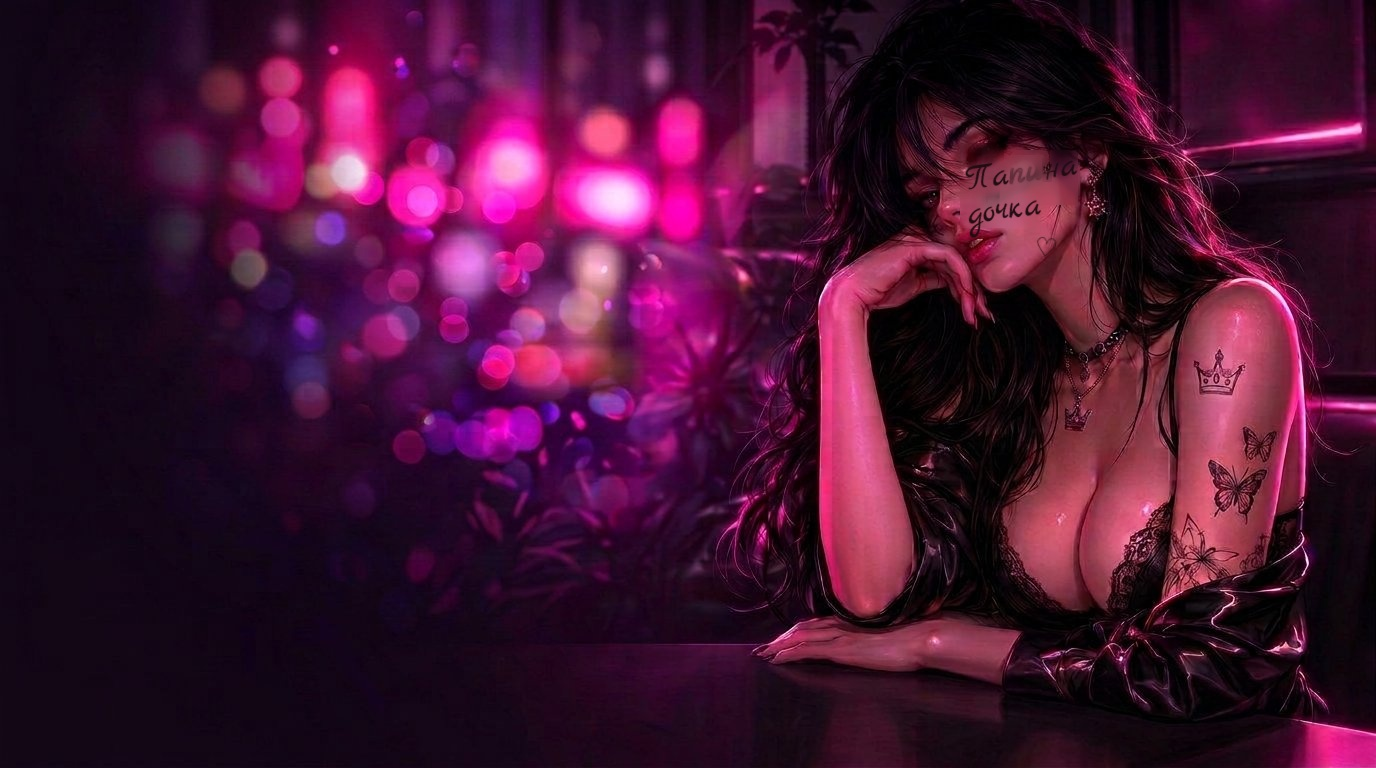
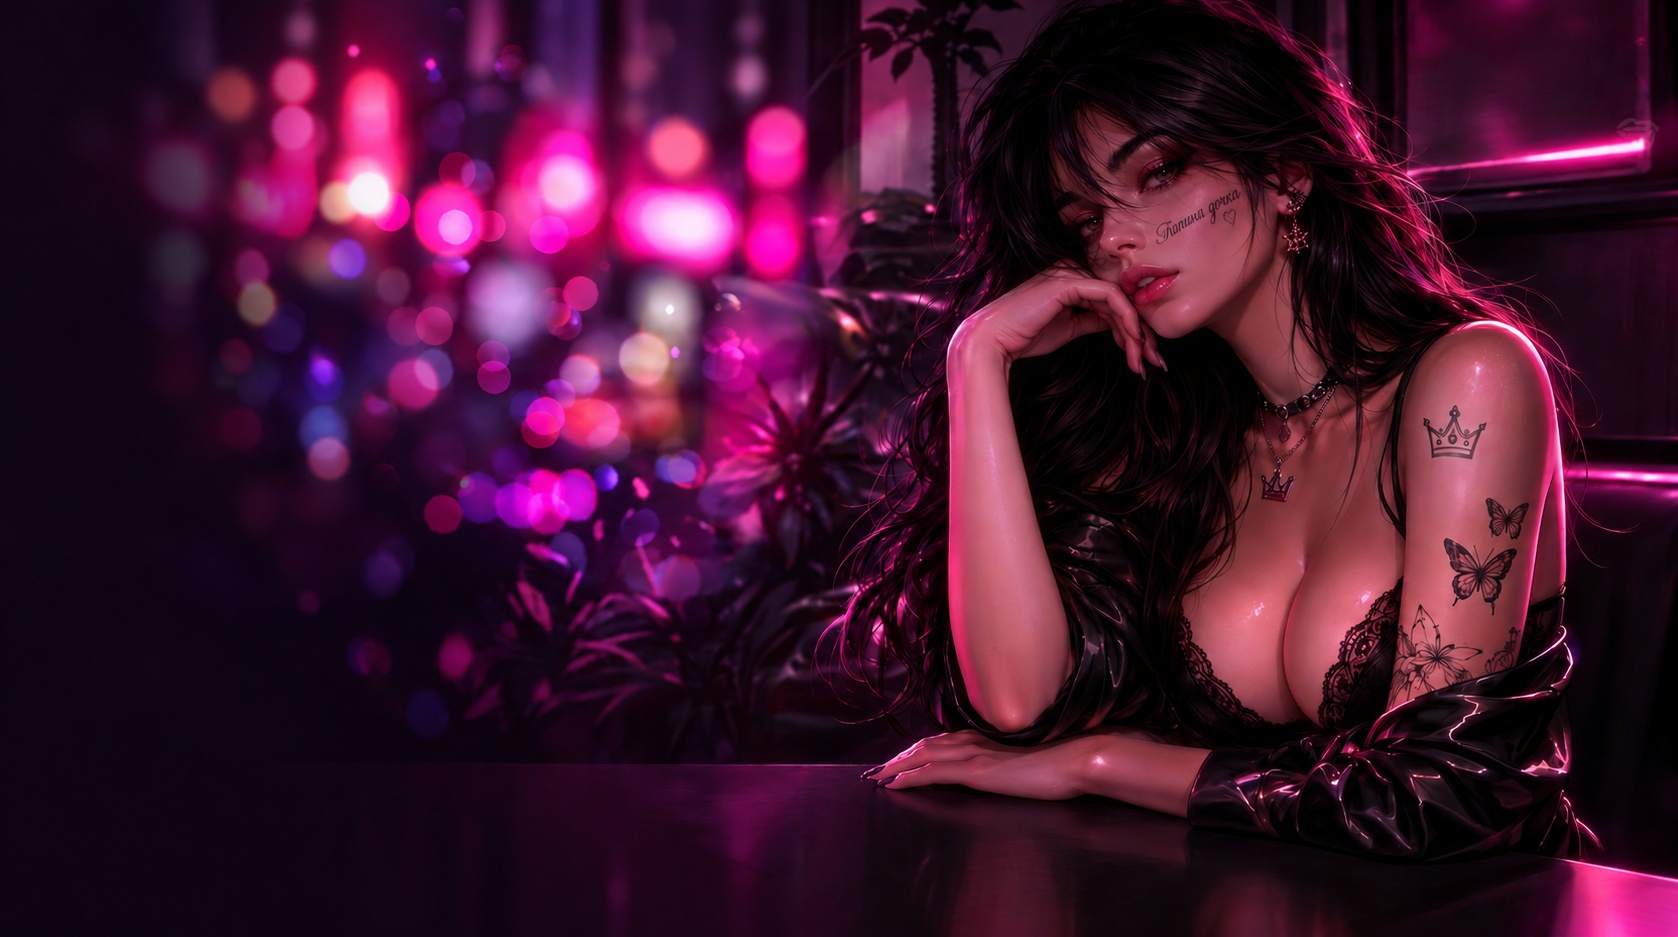
Новое фото клуба в мини-апп + пробный период в приветствии
- welcome.jpg + docha.jpg: новый вариант клуба с чистым тату в строку
- /start: строка про пробный период (3 дн. бесплатно, всё включено);
  подарок за подписку переформулирован как «ещё N дн.»
- botfather.txt: пробный период в Description

diff --git a/app/bot/texts.py b/app/bot/texts.py
@@ -17,10 +17,17 @@ def welcome(name: str) -> str:
         if not settings.public_login_enabled
         else ""
     )
-    # Подарок за подписку — сразу в приветствии: это первое, что человеку
-    # стоит знать, если он ещё не платил.
+    # Пробный период выдаётся сам при первом заходе (см. ensure_user): это
+    # первое, что человеку стоит знать, — всё уже включено и бесплатно.
+    trial_line = (
+        f"\n\n🎁 <b>Пробный период — {settings.trial_days} дн. бесплатно</b>: "
+        "все задачи включены сразу, карта не нужна."
+        if settings.trial_days > 0
+        else ""
+    )
+    # Подарок за подписку — следом: плюс дни к абонементу.
     bonus_line = (
-        f"\n\n🎁 <b>{settings.bonus_days} дн. бесплатно</b> за подписку на "
+        f"\n\n➕ <b>Ещё {settings.bonus_days} дн. бесплатно</b> за подписку на "
         f"{bonus.channel()} — /bonus"
         if bonus.enabled()
         else ""
@@ -42,6 +49,7 @@ def welcome(name: str) -> str:
         "<b>В каждой задаче:</b> фильтры по словам и медиа, задержка, автозамены.\n"
         "Несколько аккаунтов — один абонемент на всё сразу.\n\n"
         "Кабинет уже ждёт — кнопка ниже 👇"
+        f"{trial_line}"
         f"{bonus_line}"
         f"{status_line}"
     )
